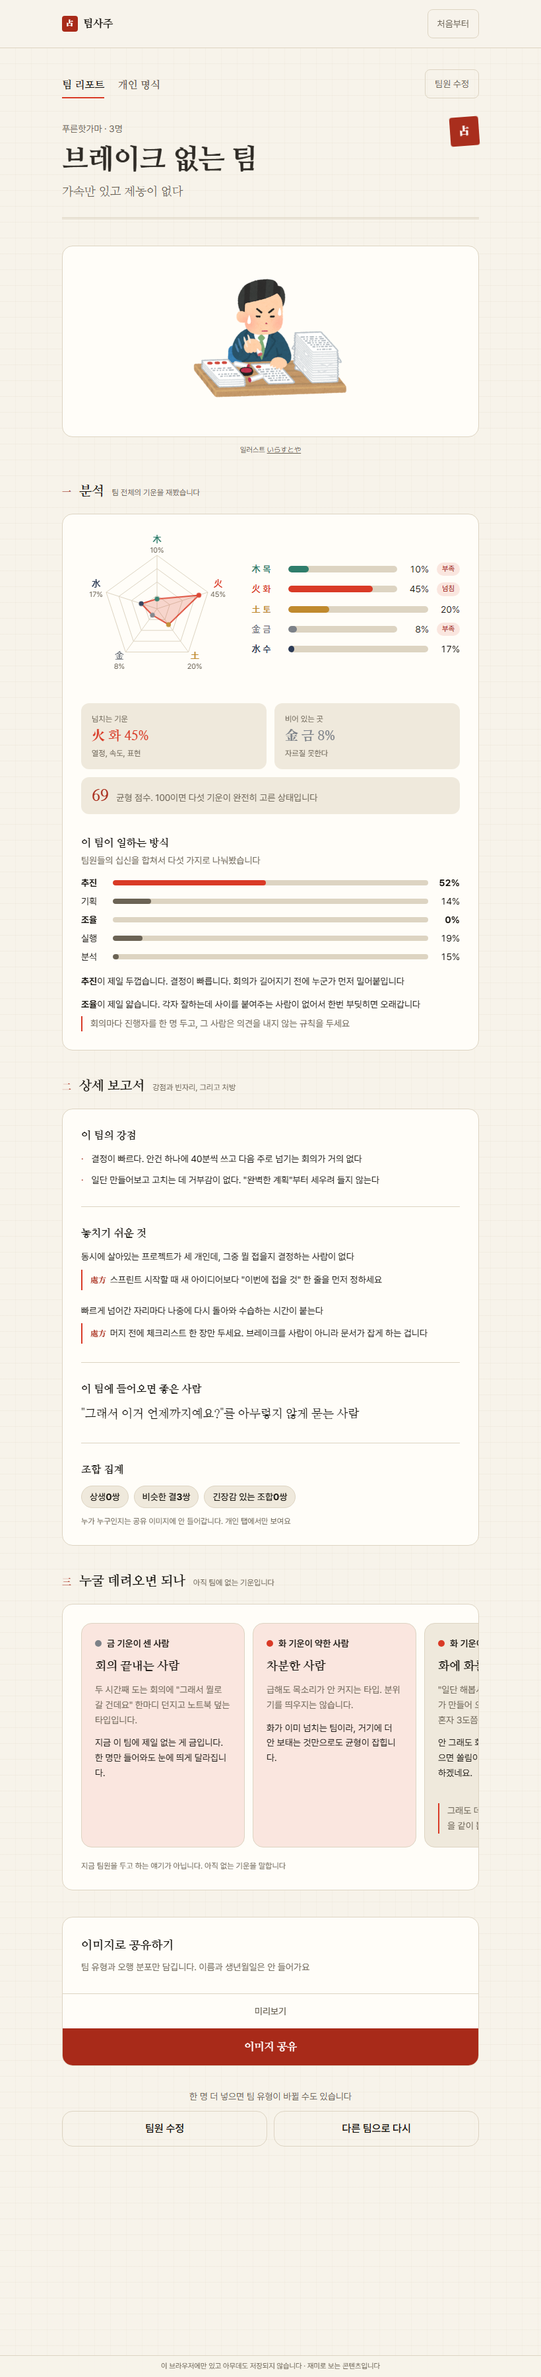
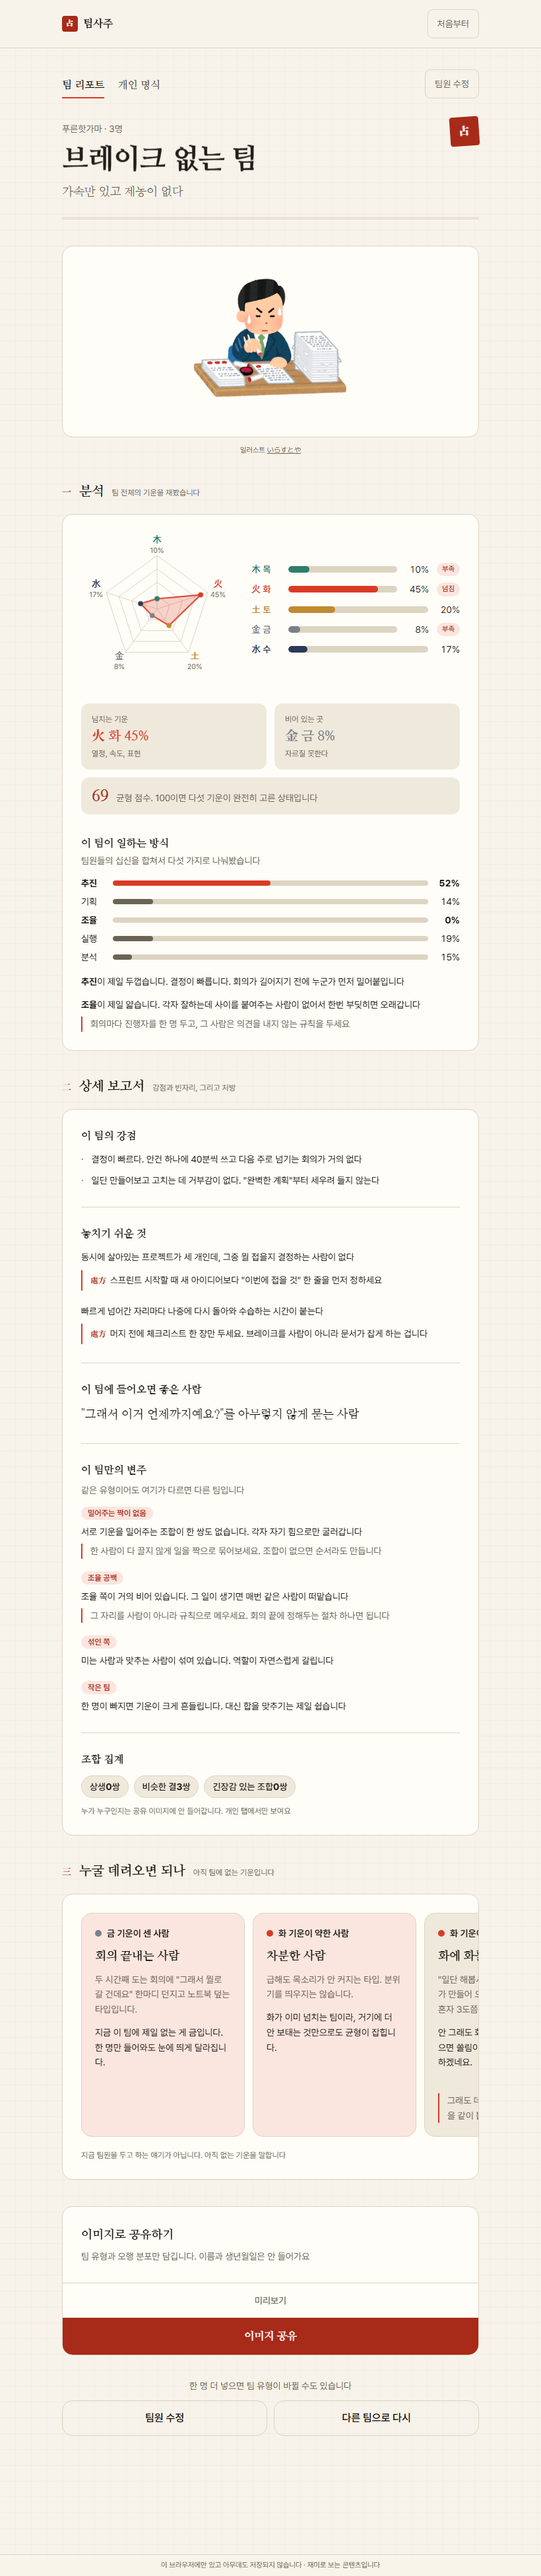
docs: 변주 규칙과 결정을 문서에 남긴다

diff --git a/docs/05-roadmap.md b/docs/05-roadmap.md
@@ -72,6 +72,9 @@
 | 2026-09-06 | 분석 전에 로딩 화면을 둔다. 명식을 보는 척하는 문구가 돌아간다 |
 | 2026-09-07 | 일러스트는 **결핍 오행**으로 고른다. 유형의 성격은 뭐가 넘치냐가 아니라 뭐가 없냐에서 나온다. 주도 오행으로 고르면 문구는 브레이크가 없다는데 그림만 신나 있다 |
 | 2026-09-07 | public/illust 파일은 내용이 바뀌면 이름도 바꾼다. vercel.json 이 1년 immutable 캐시를 걸어둬서, 같은 이름으로 내용만 갈면 이미 받아간 사람은 옛 그림을 계속 본다 |
+| 2026-09-07 | 유형 위에 변주를 얹는다. 주도와 결핍 두 변수만으로는 3인 팀과 8인 팀이 같은 결과로 떨어진다. 상생 사슬, 5축 공백, 강약 구성, 인원수 구간을 얹으면 같은 유형도 다르게 읽힌다 |
+| 2026-09-07 | 변주에서 사람을 지목하지 않는다. 누가 겉도는지 이름을 쓰면 배제하는 UI 가 된다. "자리" 로만 말하고 처방은 팀이 할 일로 쓴다 |
+| 2026-09-07 | 조사는 `src/lib/text/josa.ts` 를 거친다. 이름과 오행을 문장에 끼우는 자리가 계산 레이어에도 있어서 report 밑에 두면 의존 방향이 거꾸로다 |
 | 2026-09-07 | 결과 아래에 데려오면 좋은 기운 카드를 넣는다. 팔자 8글자까지 안 가고 오행 하나로 말한다. 실제 팀원을 줄 세우지는 않는다. 여기 나오는 건 아직 팀에 없는 가상의 기운이고, 안 되는 쪽에도 처방이 반드시 붙는다 |
 | 2026-09-07 | 랜딩에서 예시 리포트를 먼저 보여준다. 남의 생년월일시까지 받아와야 하는 입력을 시키기 전에 뭐가 나오는지 보여주는 게 맞다. 표본 팀은 예시와 개발 시드가 같은 걸 쓴다 |
 | 2026-09-07 | 동의 모달은 입력 화면에서만 띄운다. 동의는 개인정보를 넣을 때 받는 거지 결과를 볼 때 받는 게 아니다 |

diff --git a/docs/07-team-report.md b/docs/07-team-report.md
@@ -316,3 +316,31 @@ CSS 변수가 상속돼서 아래가 전부 따라온다. 공유 카드는 canva
 
 문구도 사람이 아니라 **조합**을 얘기하게 쓴다. "뽑지 마세요" 가 아니라
 "거기에 더 보태면 쏠림이 두 배가 됩니다" 다.
+
+## 이 팀만의 변주
+
+주도와 결핍 두 변수만으로는 3인 팀과 8인 팀이 같은 결과로 떨어진다.
+같은 "브레이크 없는 팀" 이어도 아래가 다르면 다른 팀이다.
+
+| 변주 | 조건 | 처방 |
+|---|---|---|
+| 밀어주는 짝이 없음 | 상생 조합이 0쌍 | 있음 |
+| 혼자 도는 자리 | 상생에 안 들어간 자리가 있음 (3인 이상) | 있음 |
+| 5축 공백 | 어느 축이 5% 이하 | 있음 |
+| 다 밀어붙이는 쪽 / 다 맞춰주는 쪽 / 섞인 쪽 | 신강 또는 신약이 70% 이상 | 쏠린 쪽만 |
+| 작은 팀 / 중간 팀 / 큰 팀 | 3인 이하 / 4~6인 / 7인 이상 | 큰 팀만 |
+
+인원수 구간은 항상 마지막이다. 늘 나오는 얘기라 앞에 두면 지겹다.
+
+상생이 아예 없으면 "혼자 도는 자리" 를 안 그린다. 같은 얘기를 두 번 하게 된다.
+
+### 사람을 지목하지 않는다
+
+누가 겉도는지 이름을 쓰면 배제하는 UI 가 된다. `docs/00-product-brief.md` 의
+"궁합 점수로 사람 배제" 금지에 걸린다.
+
+**"자리" 로만 말한다.** 처방도 그 사람을 어떻게 하라가 아니라 팀이 뭘 하라로 쓴다.
+"그 자리를 없애는 게 아니라 짝을 붙이면 됩니다" 처럼.
+
+테스트가 이걸 고정한다. 1인부터 8인까지 모든 구성에서 팀원 이름이 변주 문구에
+안 들어가는지 확인한다.
